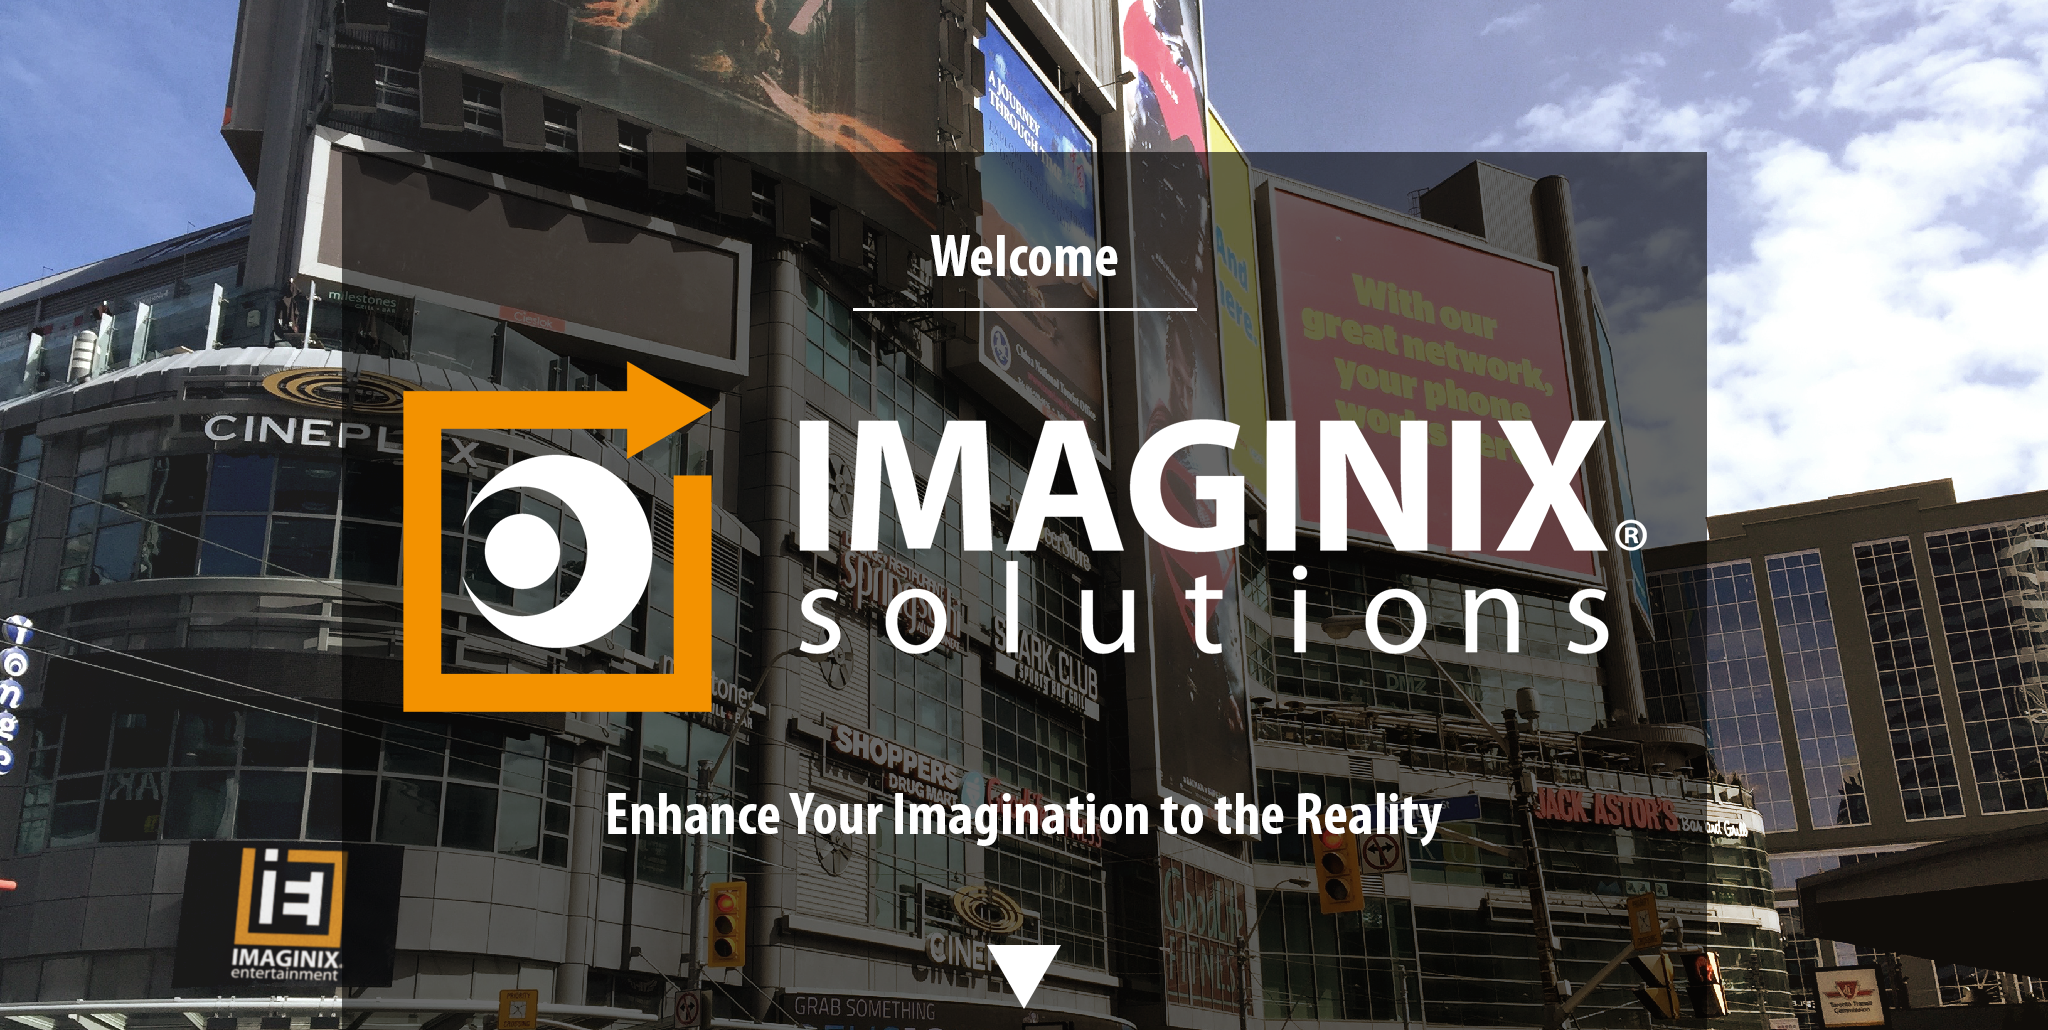
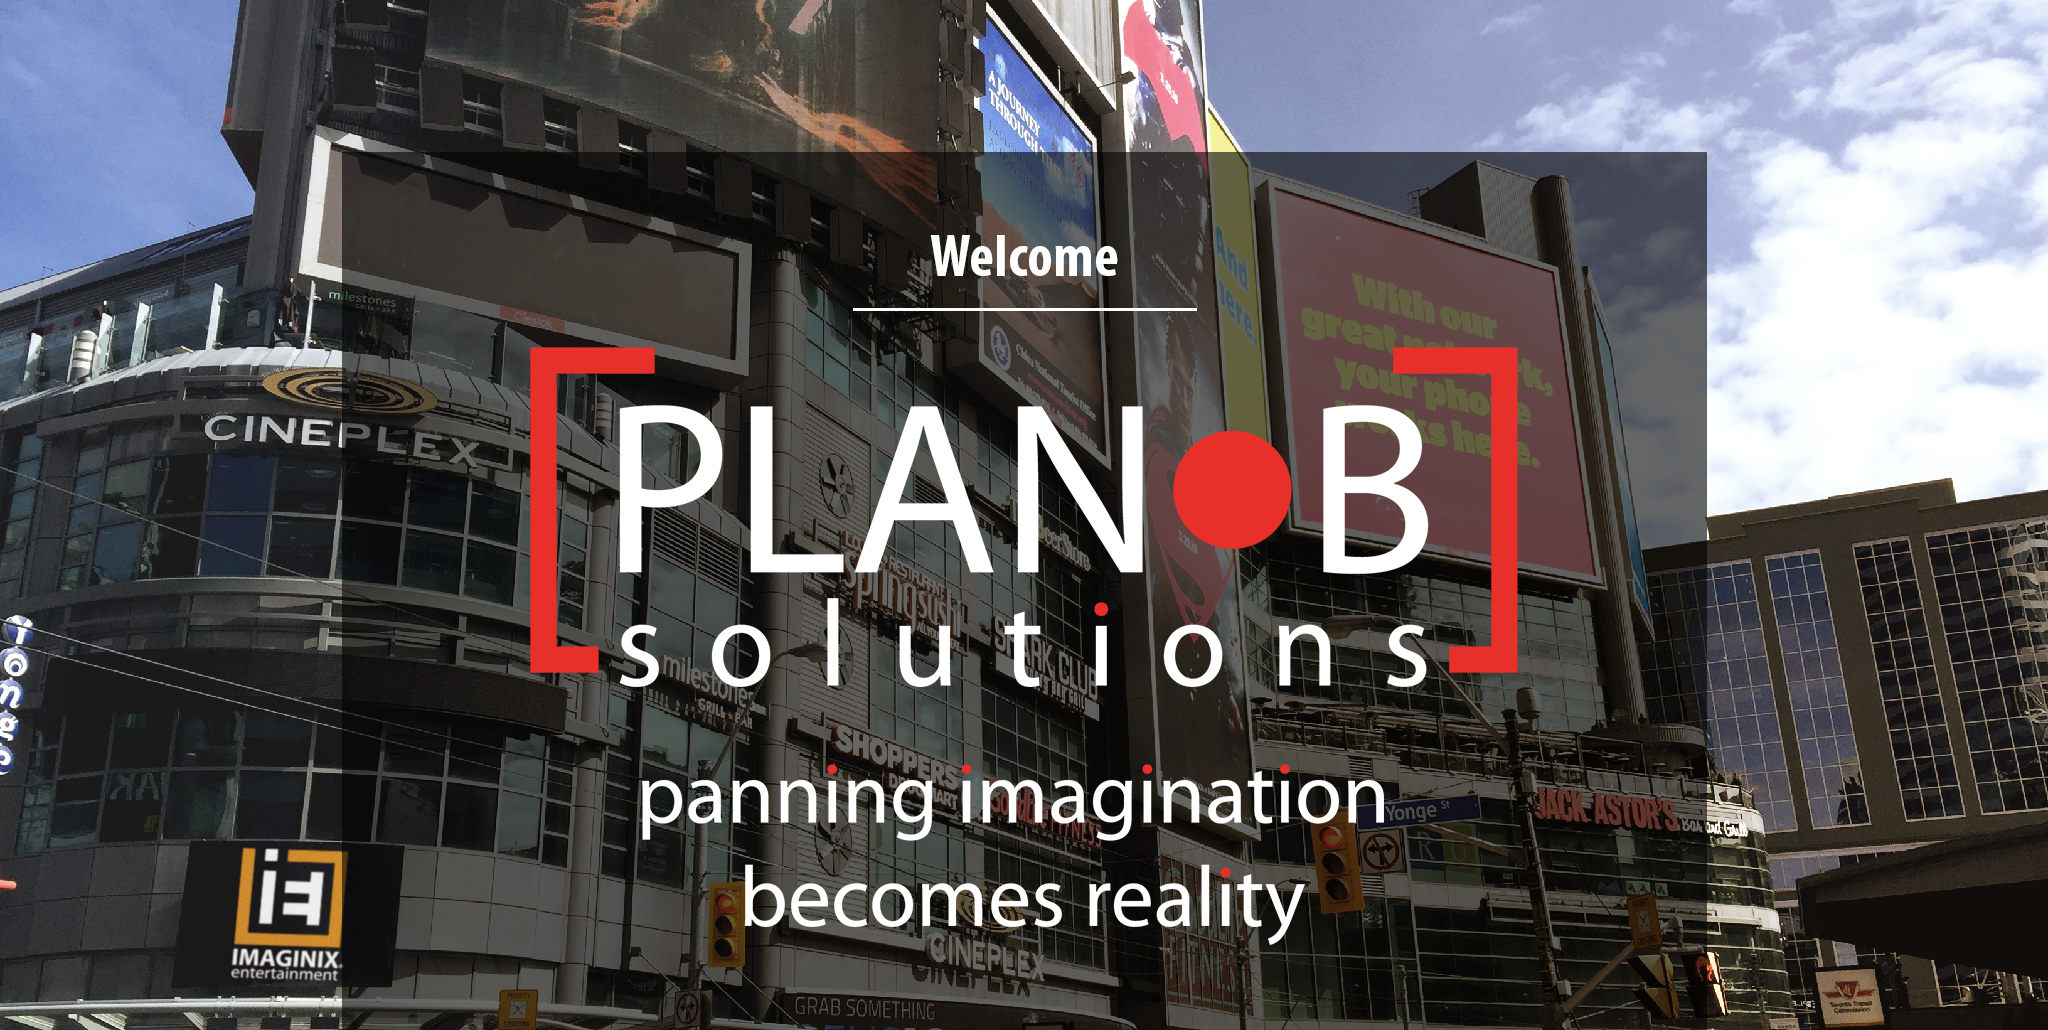
Changing the contact info and footer.  Changed the main splash/hero image.

Changed region(s): [[0.1875, 0.3107, 0.8125, 0.7146], [0.2812, 0.7456, 0.7188, 0.9631]]

diff --git a/index.html b/index.html
@@ -154,11 +154,13 @@
         </section>
         <section id="partner_section">
           <h3>PROJECT PARTNERS</h3>
-          <div class="partner">
-            <img src="images/partners/Microsoft_HoloLens_logo.png" alt="hololens_partner" />
-          </div>
-          <div class="partner">
-            <img src="images/partners/summa_game.png" alt="summa_partner" />
+          <div class="partner_container">
+            <div class="partner">
+              <img src="images/partners/Microsoft_HoloLens_logo.png" alt="hololens_partner" />
+            </div>
+            <div class="partner">
+              <img src="images/partners/summa_game.png" alt="summa_partner" />
+            </div>
           </div>
         </section>
         <section id="press_section">
@@ -239,7 +241,7 @@
         </section>
         <section id="contact_section">
           <h3>CONNECT WITH US</h3>
-          <form>
+          <!-- <form>
               <label>Name</label>
               <input name="name" placeholder="Type Here">
 
@@ -250,13 +252,22 @@
               <textarea name="message" placeholder="Type Here"></textarea>
 
               <button id="submit" name="submit" type="submit" value="Submit"><h3>Submit</h3></button>
-          </form>
-        </section>
-        <footer>
-          <div class="">
+          </form> -->
+          <div class="contact">
             Email: <a href="mailto:imaginixgames@gmail.com">imaginixgames@gmail.com</a>
             Phone: +1 (416) 371-7957
+            <br />
+            <a href="https://www.facebook.com/imaginixgames/" target="_blank"><i class="fa fa-facebook-official  fa-5x" aria-hidden="true"></i></a>
+            <a href="https://www.linkedin.com/company/imaginix-games" target="_blank"><i class="fa fa-linkedin-square fa-5x" aria-hidden="true"></i></a>
           </div>
+        </section>
+        <footer>
+          Email: <a href="mailto:imaginixgames@gmail.com">imaginixgames@gmail.com</a>
+          Phone: +1 (416) 371-7957
+          <br />
+          <a href="https://www.facebook.com/imaginixgames/" target="_blank"><i class="fa fa-facebook-official  fa-5x" aria-hidden="true"></i></a>
+          <a href="https://www.linkedin.com/company/imaginix-games" target="_blank"><i class="fa fa-linkedin-square fa-5x" aria-hidden="true"></i></a>
+        </div>
         </footer>
     </main>
     <script src="https://use.fontawesome.com/c064d436c2.js"></script>

diff --git a/css/styles.css b/css/styles.css
@@ -64,7 +64,7 @@ a:hover {
   display: inline-block;
 }
 
-.solution {
+#solution_section .solution {
   display: block;
   float: left;
   width: 50%;
@@ -76,7 +76,7 @@ a:hover {
   min-height: 300px;
 }
 
-.solution h3 {
+#solution_section .solution h3 {
   color: #3B90AF;
 }
 
@@ -84,7 +84,7 @@ a:hover {
   display: inline-block;
 }
 
-.project {
+#project_section .project {
   display: block;
   float: left;
   width: 50%;
@@ -96,11 +96,11 @@ a:hover {
   min-height: 250px;
 }
 
-.project h3 {
+#project_section .project h3 {
   color: #FFDA90;
 }
 
-.project img {
+#project_section .project img {
   width: 50%;
   float: left;
   overflow: hidden;
@@ -111,7 +111,7 @@ a:hover {
   width: 100%;
 }
 
-.partner {
+#partner_section .partner {
   display: block;
   float: left;
   width: 50%;
@@ -121,7 +121,11 @@ a:hover {
   min-width: 400px;
 }
 
-.partner img {
+#partner_section .partner_container {
+  height: 5%;
+}
+
+#partner_section .partner img {
   max-width: 50%;
   height: auto;
 }
@@ -195,6 +199,18 @@ a:hover {
 
 #contact_section input:focus, textarea:focus {
     border:1px solid #97d6eb;
+}
+
+#contact_section .contact a:link {
+  color: black;
+}
+
+#contact_section .contact a:visited {
+  color: black;
+}
+
+#contact_section .contact a:hover {
+  color: #FFDA90;
 }
 
 footer {
